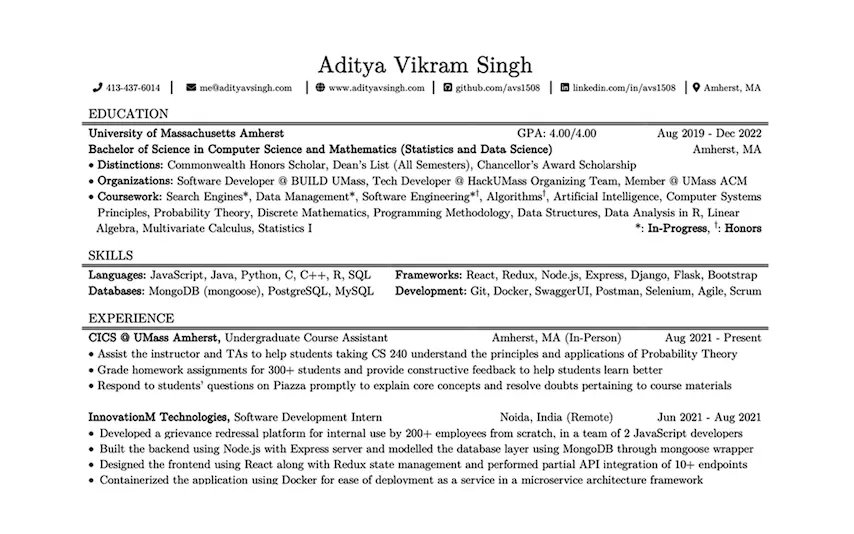
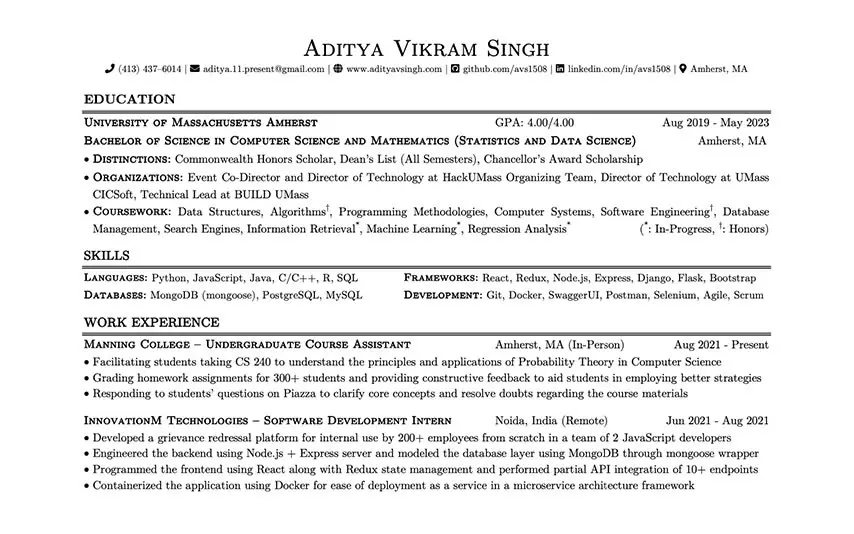
Updated resume thumbnail and updated the Open Graph meta image

Changed region(s): [[0.0913, 0.0599, 0.9133, 0.9288]]

diff --git a/public/index.html b/public/index.html
@@ -180,7 +180,7 @@
         <!--OpenGraph Type-->
         <meta property="og:type" content="website" />
         <!--OpenGraph Image-->
-        <meta name="image" property="og:image" content="https://www.adityavsingh.com/media/jpg/cocoa-beach-me.jpg" />
+        <meta name="image" property="og:image" content="https://www.adityavsingh.com/media/jpg/brooklyn-bridge-me.jpg" />
         <!-- Webpage Logo -->
         <link rel="icon" href="%PUBLIC_URL%/favicon.ico" />
         <meta name="theme-color" content="#000000" />
